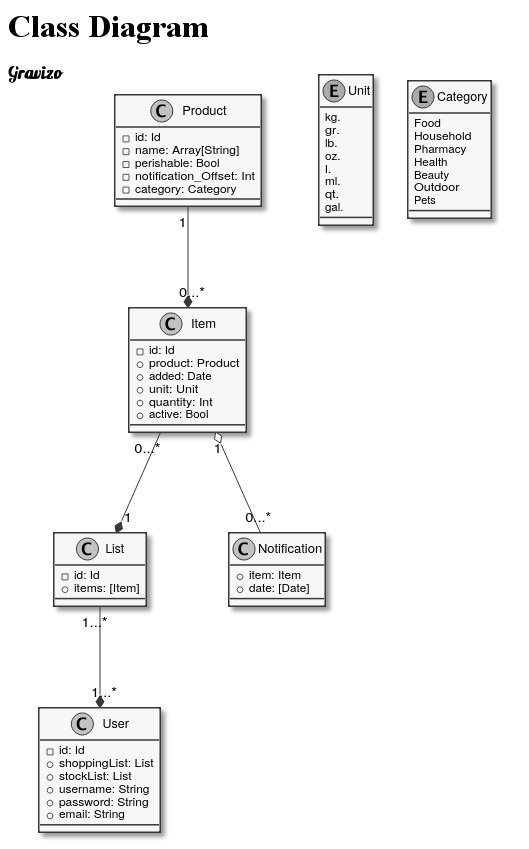
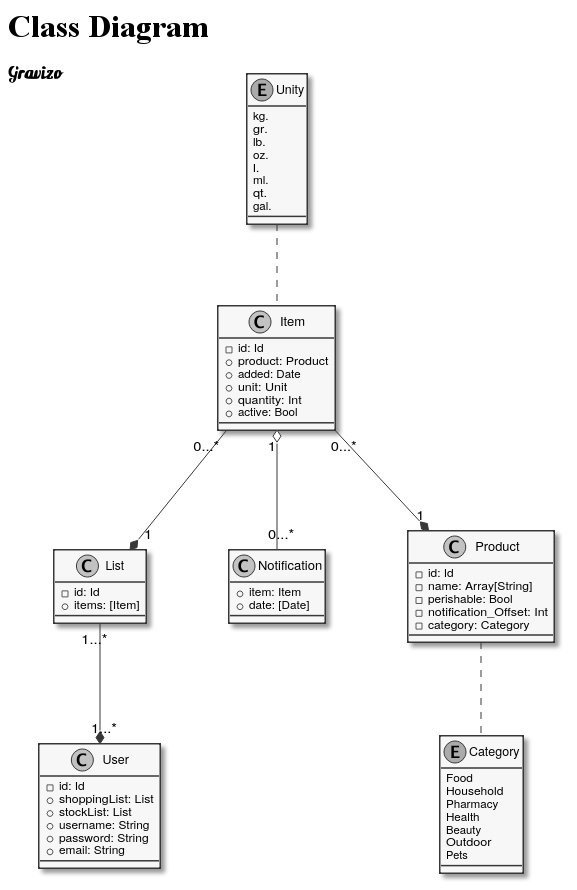
Fix diagram class

diff --git a/documentation/classDiagram.html b/documentation/classDiagram.html
@@ -27,7 +27,7 @@ class Item {;
  + active: Bool;
 };
 
-enum Unit {;
+enum Unity {;
  kg.;
  gr.;
  lb.;
@@ -61,8 +61,10 @@ enum Category {;
  Pets;
 };
 
-Product "1" --* "0...*" Item;
+Item "0...*" --* "1" Product;
+Product .. Category;
 Item "0...*" --* "1" List;
+Unity .. Item;
 List "1...*" --* "1...*" User;
 Item "1" o-- "0...*" Notification;
 @enduml
